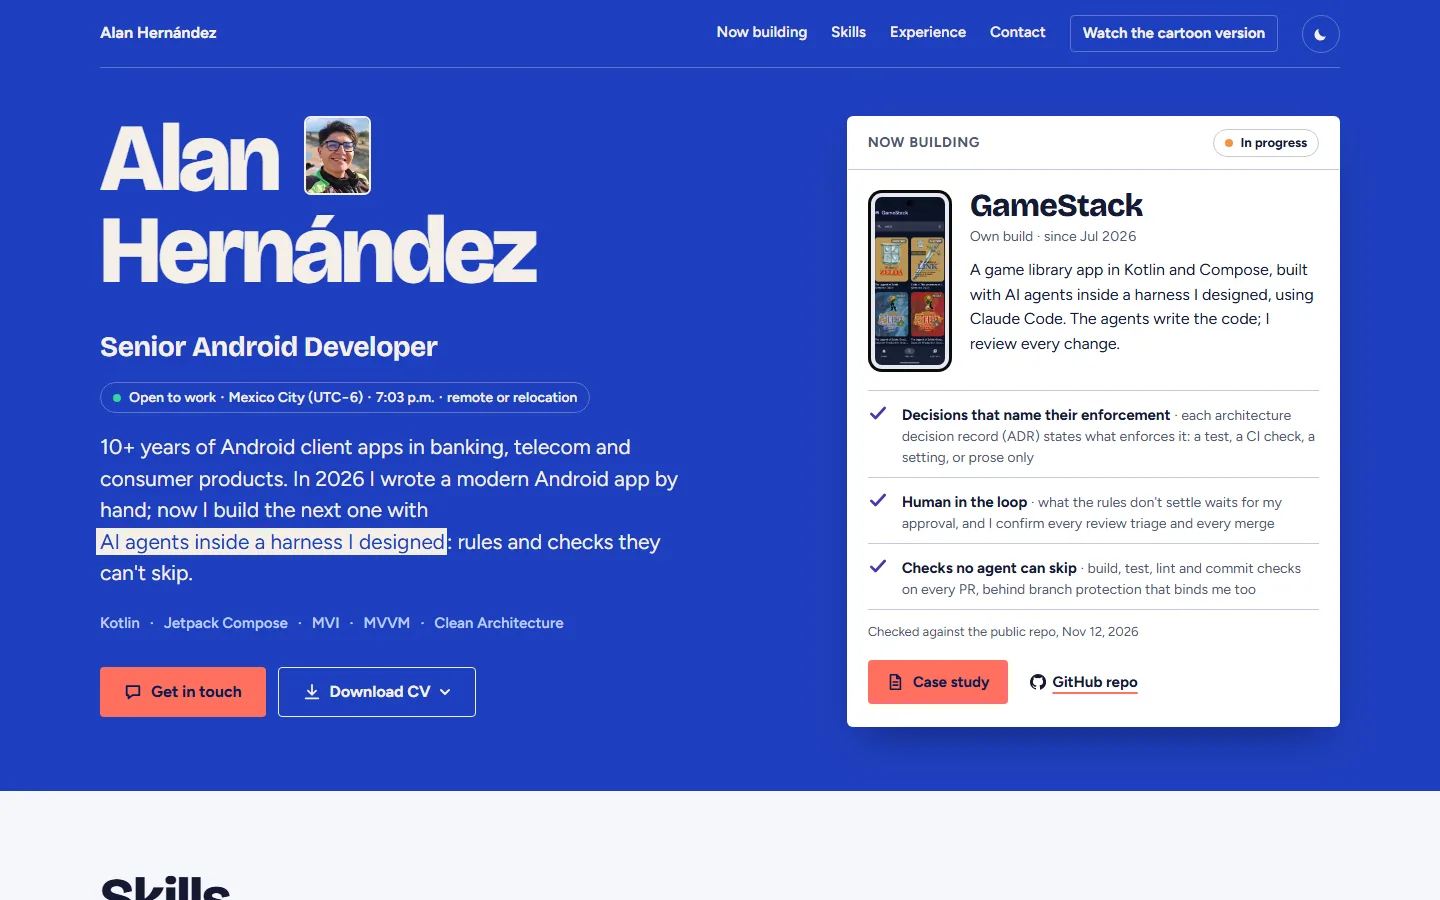
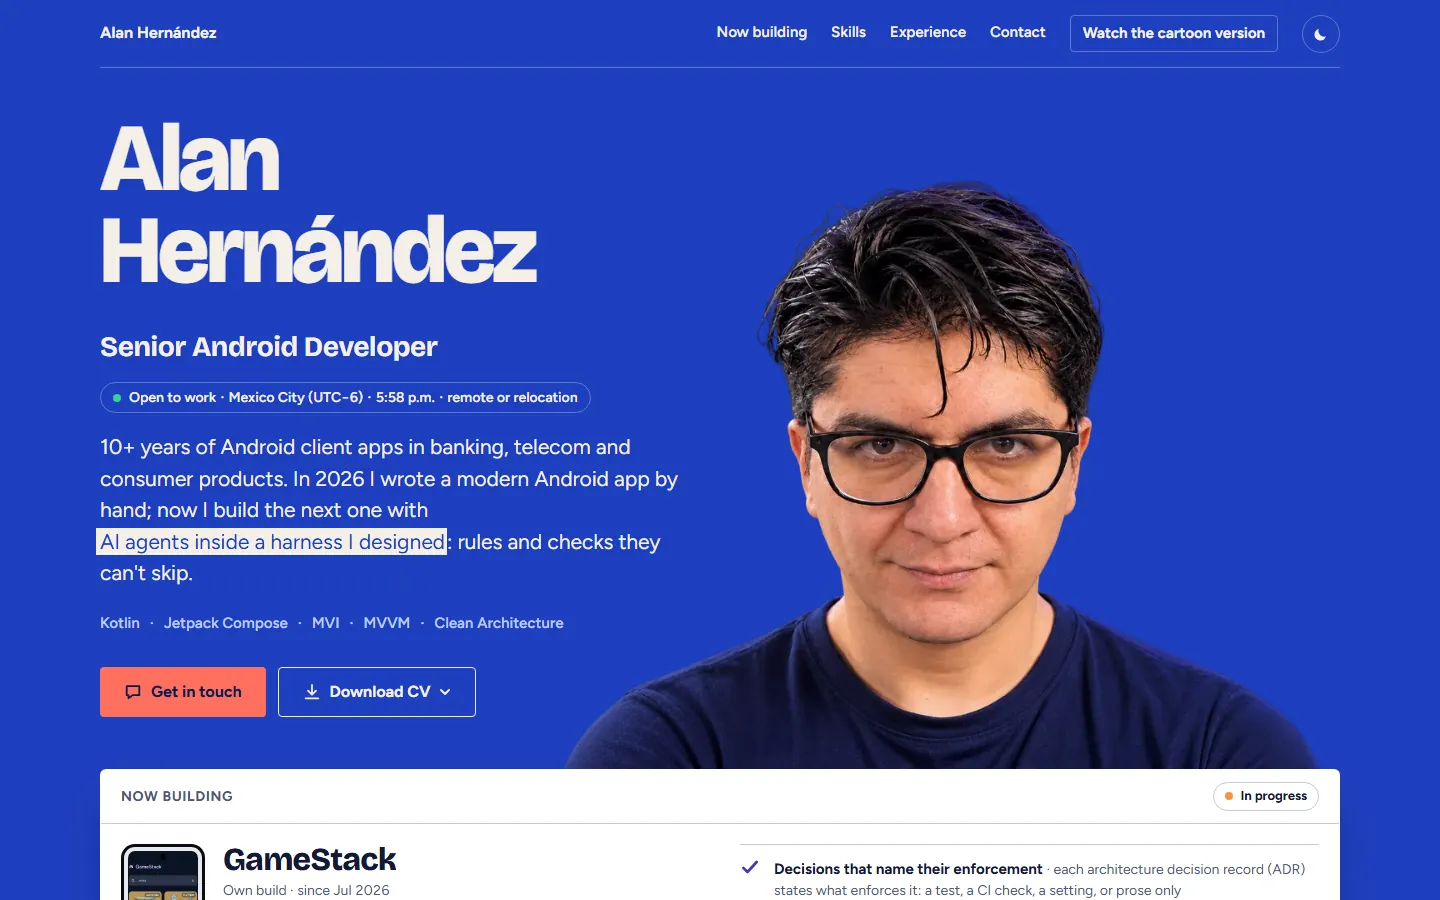
docs(readme): Retake the captures with the new portrait (#43)
## What changed
Four README captures retaken from a fresh build (Quick and Cartoon,
desktop and phone) with the new portrait; alt text of the two desktop
ones updated.
## Why
They predated the portrait (backlog 2i). The case and guide captures
show no portrait, so they stay.
## Verification
Same framing as before; `shots.js` reports no errors or overflow; WebP
sizes 39–83 KB, same as the old ones.

diff --git a/README.md b/README.md
@@ -11,11 +11,11 @@ in seconds; hiring managers audit it, following every claim into a case study an
 <table>
   <tr>
     <td align="center" width="50%">
-      <img src="docs/readme/quick.webp" alt="Quick: the name, the role, the stack and the project in progress on a cobalt field"><br>
+      <img src="docs/readme/quick.webp" alt="Quick: the name, the role, the stack and a portrait on a cobalt field"><br>
       <sub><b>Quick</b>, the quick read and the main door</sub>
     </td>
     <td align="center" width="50%">
-      <img src="docs/readme/cartoon.webp" alt="Cartoon: the same landing as a Saturday-morning cartoon title card, the name in big lettering over sun rays"><br>
+      <img src="docs/readme/cartoon.webp" alt="Cartoon: the same landing as a Saturday-morning cartoon title card, the name in big lettering and a portrait over sun rays"><br>
       <sub><b>Cartoon</b>, the same landing as a cartoon program</sub>
     </td>
   </tr>
